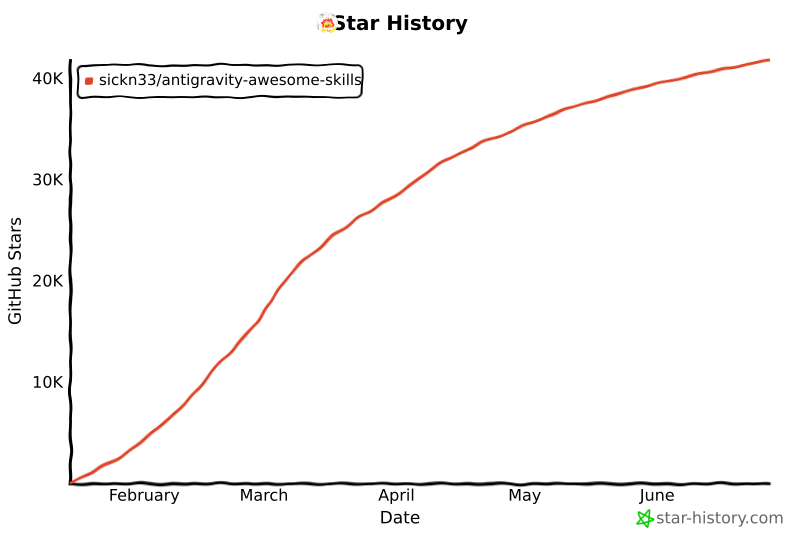
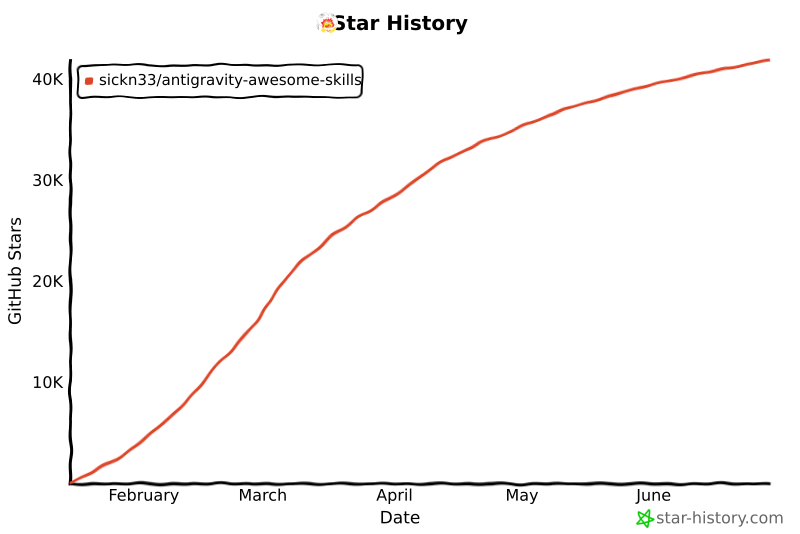
chore: update star history chart

diff --git a/README.md b/README.md
@@ -518,14 +518,14 @@ We officially thank the following contributors for their help in making this rep
 ## Star History
 
 <a href="https://www.star-history.com/#sickn33/antigravity-awesome-skills&type=date&legend=top-left">
- <img alt="Star History Chart" src="https://api.star-history.com/svg?repos=sickn33/antigravity-awesome-skills&type=date&legend=top-left&cache_bust=202606280926" />
+ <img alt="Star History Chart" src="https://api.star-history.com/svg?repos=sickn33/antigravity-awesome-skills&type=date&legend=top-left&cache_bust=202606291028" />
 </a>
 
 <a href="https://www.star-history.com/sickn33/antigravity-awesome-skills">
  <picture>
-   <source media="(prefers-color-scheme: dark)" srcset="https://api.star-history.com/chart?repos=sickn33/antigravity-awesome-skills&style=landscape1&theme=dark&cache_bust=202606280926" />
-   <source media="(prefers-color-scheme: light)" srcset="https://api.star-history.com/chart?repos=sickn33/antigravity-awesome-skills&style=landscape1&cache_bust=202606280926" />
-   <img alt="Star History Chart" src="https://api.star-history.com/chart?repos=sickn33/antigravity-awesome-skills&style=landscape1&cache_bust=202606280926" />
+   <source media="(prefers-color-scheme: dark)" srcset="https://api.star-history.com/chart?repos=sickn33/antigravity-awesome-skills&style=landscape1&theme=dark&cache_bust=202606291028" />
+   <source media="(prefers-color-scheme: light)" srcset="https://api.star-history.com/chart?repos=sickn33/antigravity-awesome-skills&style=landscape1&cache_bust=202606291028" />
+   <img alt="Star History Chart" src="https://api.star-history.com/chart?repos=sickn33/antigravity-awesome-skills&style=landscape1&cache_bust=202606291028" />
  </picture>
 </a>
 
